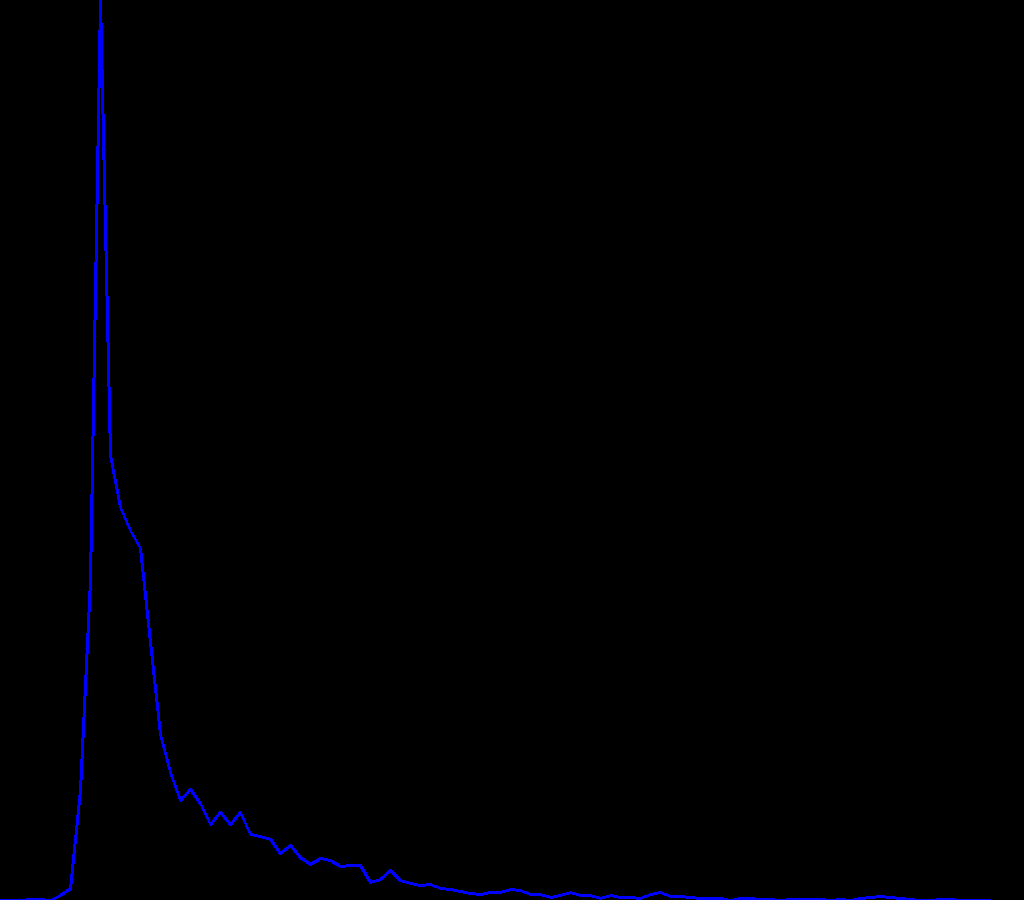
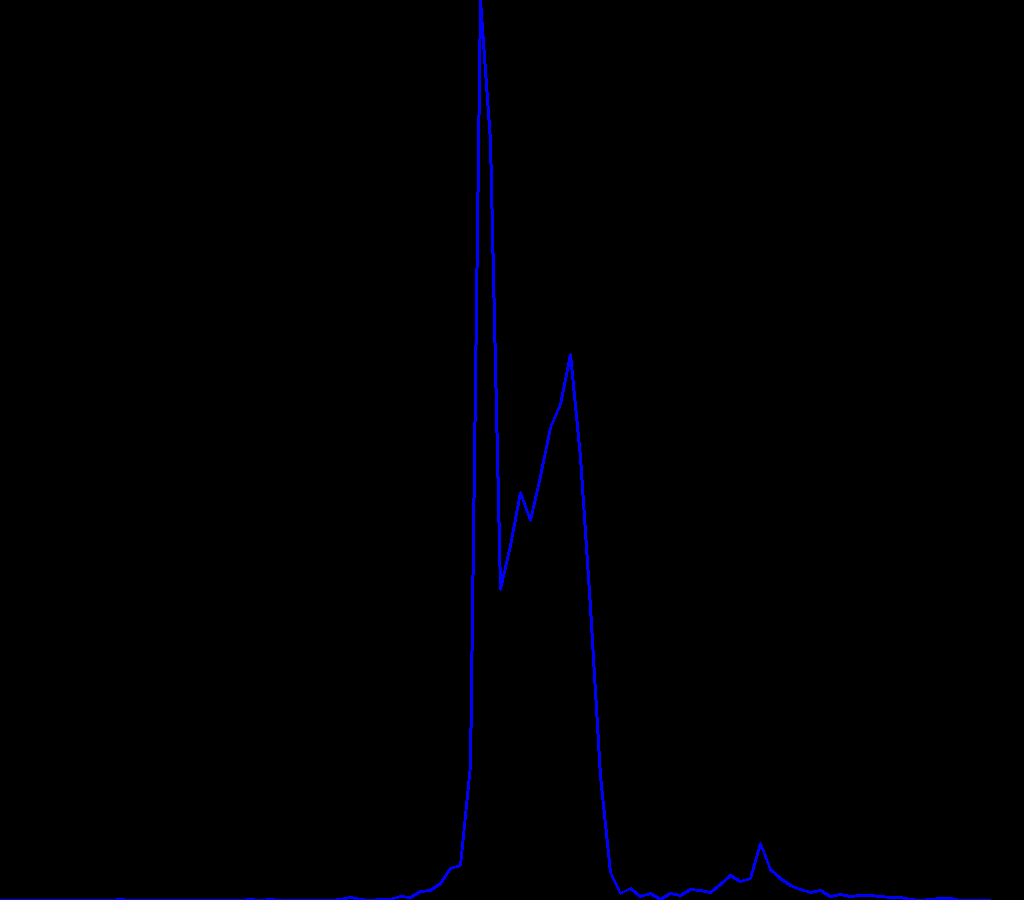
made some modification

diff --git a/homework2/DrawHistogram/main.cpp b/homework2/DrawHistogram/main.cpp
@@ -13,7 +13,7 @@ using namespace cv;
 int main()
 {
   PointCloud pointcloud = ReadPointCloudFromTextFile(
-      "/home/hongfz/Documents/Learn/AutomonousDrivingHW/homework2/sample_data/VelodyneDevice32c/0.txt");
+      "/home/hongfz/Documents/Learn/AutomonousDrivingHW/pony_data/VelodyneDevice32c/152.txt");
 
   // Generate Two Histograms
   DrawHistHight(pointcloud.points);

diff --git a/homework2/PointCloud/main.cpp b/homework2/PointCloud/main.cpp
@@ -28,7 +28,7 @@ Mat ReadPointCloud(const vector<Eigen::Vector3d>& points)
 int main()
 {
   PointCloud pointcloud = ReadPointCloudFromTextFile(
-      "/home/hongfz/Documents/Learn/AutomonousDrivingHW/pony_data/VelodyneDevice32c/100.txt");
+      "/home/hongfz/Documents/Learn/AutomonousDrivingHW/pony_data/VelodyneDevice32c/152.txt");
 
   // Generate Point Cloud Picture
 
